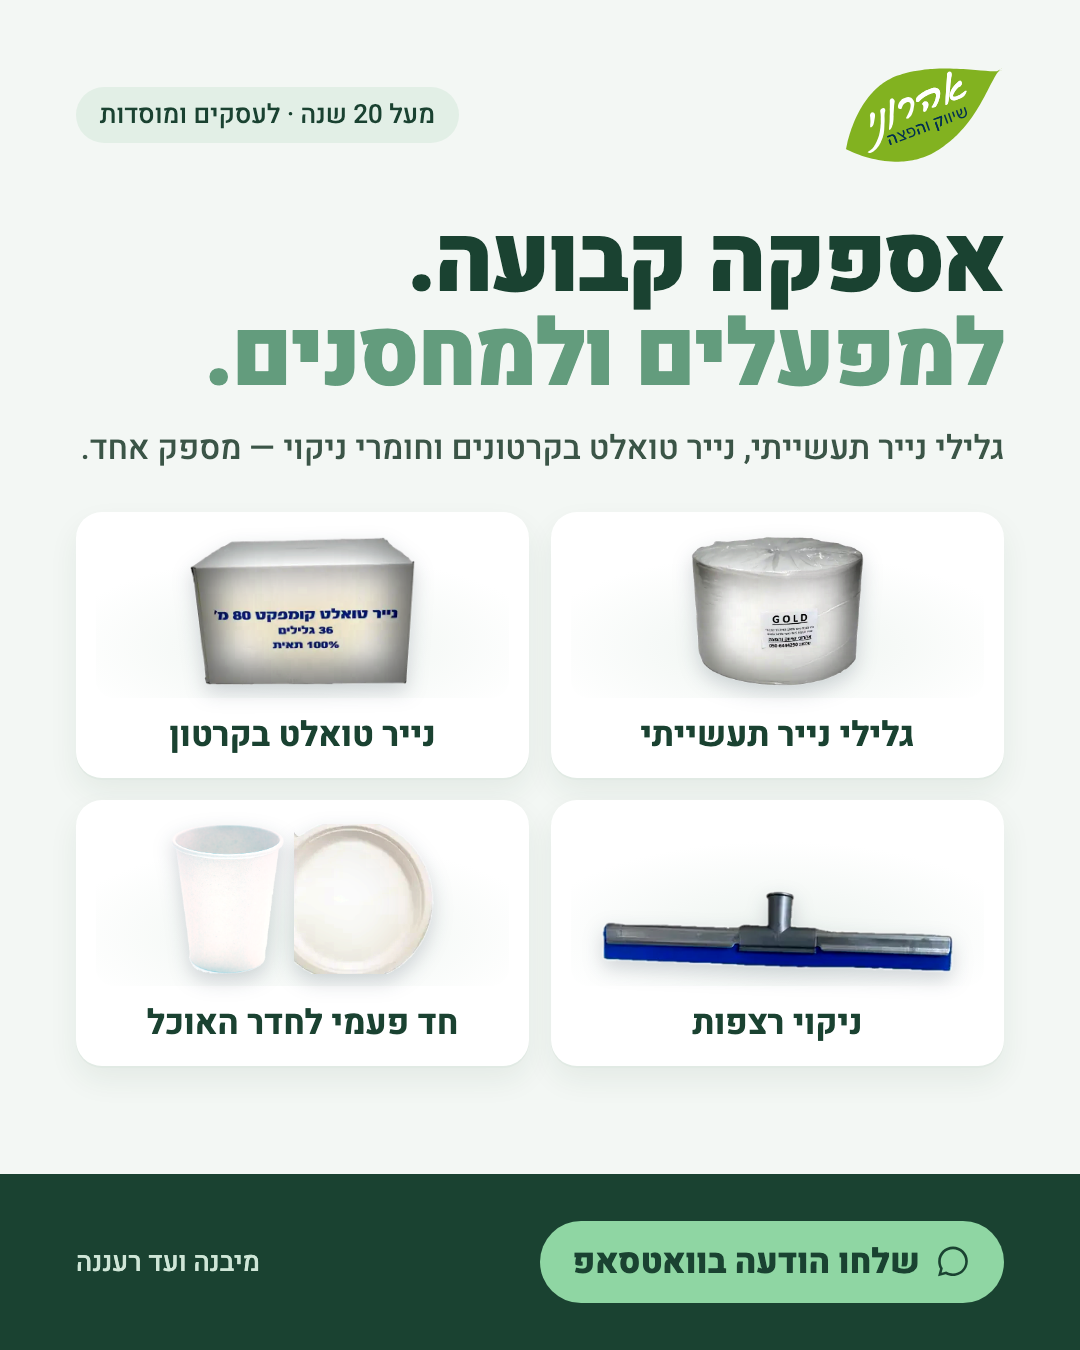
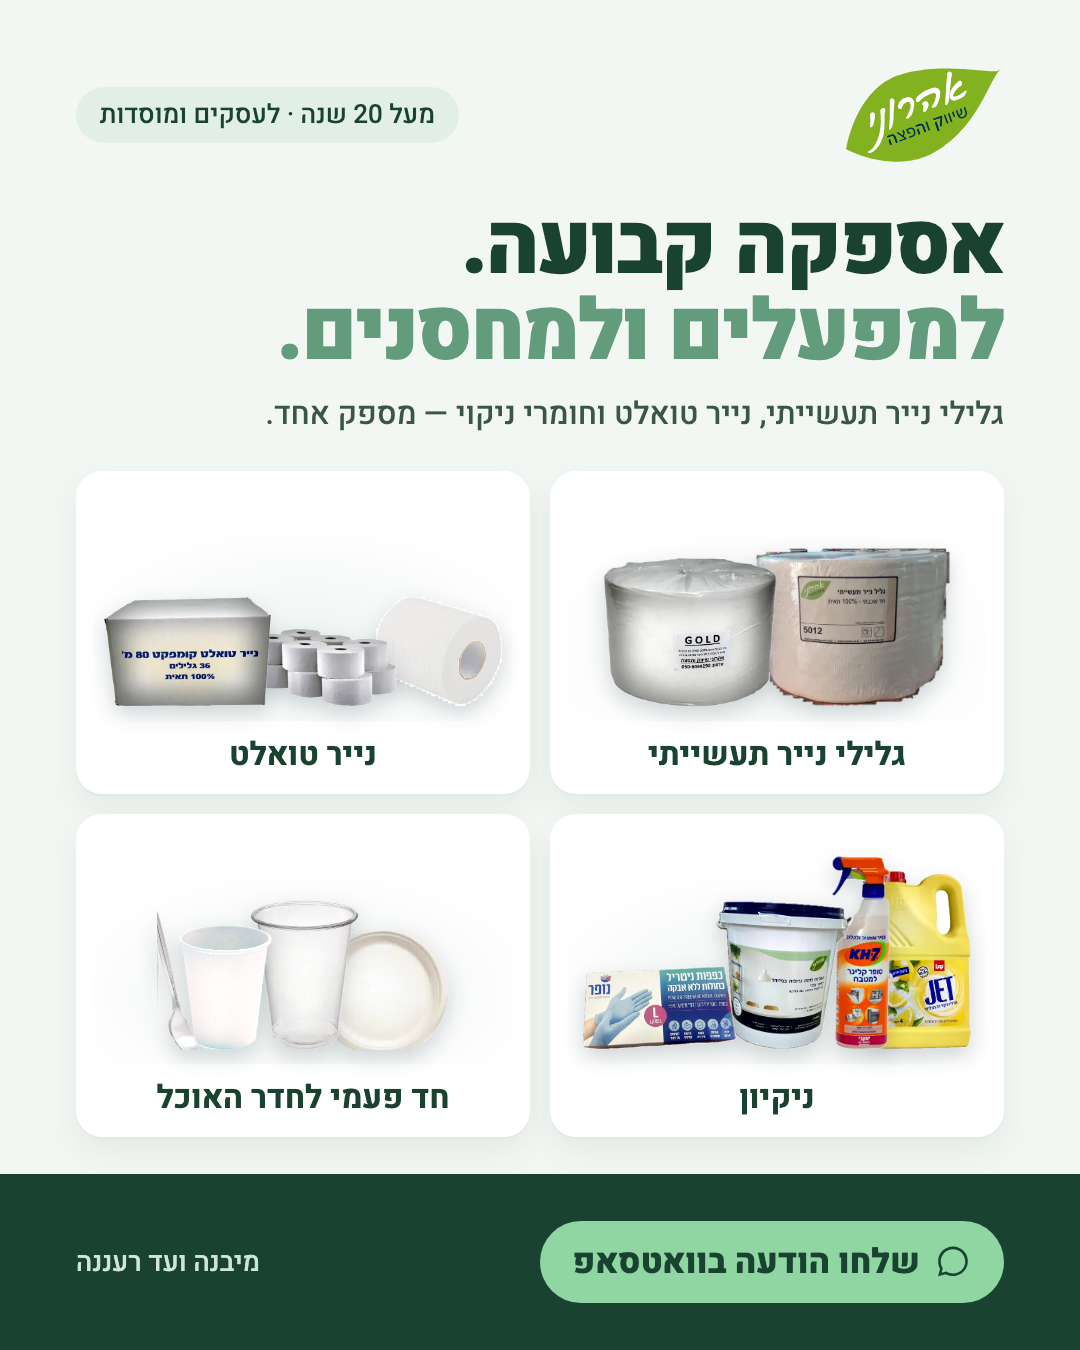
קמפיין מטא: המוצרים שרועי בחר — באריחים ובהצעת המחיר

diff --git a/marketing/ads/src/meta_draft.py b/marketing/ads/src/meta_draft.py
@@ -10,6 +10,8 @@ built on this file once they arrive.
 """
 import pathlib
 
+from PIL import Image
+
 from build import LOGO, data_uri, render
 
 HERE = pathlib.Path(__file__).parent
@@ -34,10 +36,10 @@ def photo(name):
     return data_uri(HERE / "prepped" / f"{name}.png")
 
 
-# The order in the customer's photo and the rows of the quote are the same four products -
-# all unbranded, so the quote can show their real photos.
-ORDER = [("מגבות נייר", "8", "rolls"), ("גלילי תאית", "12", "rolls2"),
-         ("כוסות 180 מ״ל", "20", "cold"), ("גליל תעשייתי", "6", "gold")]
+# The order in the customer's photo and the rows of the quote are the same four products,
+# from the ones Roei picked (22.10.26), so the quote can show their real photos.
+ORDER = [("נייר טואלט ג׳מבו", "12", "jumbo_tp"), ("גליל תעשייתי 5012", "6", "p5012"),
+         ("כוסות נייר", "20", "cup_paper"), ("כפפות ניטריל", "10", "gloves")]
 
 A = HEAD + BASE + """
 .c{position:relative;width:1080px;height:1350px;overflow:hidden;font-family:Heebo,sans-serif;
@@ -104,16 +106,17 @@ B = HEAD + BASE + """
 .top{display:flex;align-items:center;justify-content:space-between}
 .logo{width:160px;display:block}
 .chip{font-weight:500;font-size:26px;color:#1A4231;background:#E2EFE6;border-radius:40px;padding:9px 24px}
-h1{font-weight:900;font-size:92px;line-height:1.02;letter-spacing:-2px;margin-top:52px}
+h1{font-weight:900;font-size:84px;line-height:1.02;letter-spacing:-2px;margin-top:40px}
 h1 span{display:block;color:#639C7D}
-.lead{font-size:33px;font-weight:500;line-height:1.4;color:#3B5547;margin-top:22px}
-.grid{display:grid;grid-template-columns:1fr 1fr;gap:22px;margin-top:40px}
-.tile{background:#fff;border-radius:26px;padding:16px 20px 18px;display:flex;flex-direction:column;
+.lead{font-size:31px;font-weight:500;line-height:1.4;color:#3B5547;margin-top:18px}
+.grid{display:grid;grid-template-columns:1fr 1fr;gap:20px;margin-top:34px}
+.tile{background:#fff;border-radius:26px;padding:14px 18px 16px;display:flex;flex-direction:column;
   align-items:center;box-shadow:0 2px 0 #E1EAE4,0 14px 30px rgba(26,66,49,.07)}
-.ph{height:170px;width:100%;display:flex;align-items:flex-end;justify-content:center;gap:10px;
+.ph{height:236px;width:100%;display:flex;align-items:flex-end;justify-content:center;padding-bottom:14px;
   background:radial-gradient(60% 55% at 50% 70%,#EEF4F0 0%,#fff 100%);border-radius:18px}
-.ph img{max-height:150px;max-width:86%;margin-bottom:12px;filter:drop-shadow(0 8px 10px rgba(14,32,54,.18))}
-.tile span{font-weight:700;font-size:34px;margin-top:12px}
+.ph img{display:block;filter:drop-shadow(0 8px 10px rgba(14,32,54,.18))}
+.ph img + img{margin-inline-start:-@@OVERLAP@@px}
+.tile span{font-weight:700;font-size:32px;margin-top:10px}
 .band{position:absolute;left:0;right:0;bottom:0;height:176px;background:#1A4231;
   display:flex;align-items:center;justify-content:space-between;padding:0 76px}
 .cta{display:inline-flex;align-items:center;gap:14px;background:#8FD6A3;color:#1A4231;
@@ -128,24 +131,43 @@ h1 span{display:block;color:#639C7D}
   <div class="band"><span class="cta">@@WA@@שלחו הודעה בוואטסאפ</span><small>מיבנה ועד רעננה</small></div>
 </div></body></html>"""
 
+# Each tile is a small group of products at a target height in px. Roei chose the
+# groups (22.10.26): paper - 5012, compact 50, jumbo; disposables (instead of the coffee
+# corner) - paper cups, rigid spoon, plate, 500ml cup; office - copy paper, pens,
+# binders; cleaning - one Sano and one Yaakobi product, gloves, long wipes in a bucket.
+PAPER = [("p5012", 150), ("compact50", 125), ("jumbo_tp", 100)]
+DISPOSABLES = [("plate", 120), ("cup500", 150), ("cup_paper", 125), ("spoon", 140)]
+OFFICE = [("binder", 200), ("a4", 185), ("pens", 115)]
+CLEANING = [("jet", 180), ("kh7", 195), ("wipes", 150), ("gloves", 85)]
+
 B_ADS = {
     "office": dict(
         h1="ספק אחד.", h2="כל מה שהמשרד צריך.",
-        lead="נייר, קפה, ניקיון וציוד משרדי — הכל בהזמנה אחת.",
-        tiles=[(["rolls"], "נייר ומגבות"), (["cup_paper"], "פינת קפה"),
-               (["squeegee"], "ניקיון"), (["bins"], "ציוד משרדי")]),
+        lead="נייר, חד פעמי, ניקיון וציוד משרדי — הכל בהזמנה אחת.",
+        tiles=[(PAPER, "נייר וטואלט"), (DISPOSABLES, "חד פעמי"),
+               (OFFICE, "ציוד משרדי"), (CLEANING, "ניקיון")]),
     "factory": dict(
         h1="אספקה קבועה.", h2="למפעלים ולמחסנים.",
-        lead="גלילי נייר תעשייתי, נייר טואלט בקרטונים וחומרי ניקוי — מספק אחד.",
-        tiles=[(["gold"], "גלילי נייר תעשייתי"), (["carton"], "נייר טואלט בקרטון"),
-               (["squeegee"], "ניקוי רצפות"), (["plate", "cup_paper"], "חד פעמי לחדר האוכל")]),
+        lead="גלילי נייר תעשייתי, נייר טואלט וחומרי ניקוי — מספק אחד.",
+        tiles=[([("p5012", 160), ("gold", 150)], "גלילי נייר תעשייתי"),
+               ([("compact50", 140), ("jumbo_tp", 100), ("carton", 140)], "נייר טואלט"),
+               (CLEANING, "ניקיון"), (DISPOSABLES, "חד פעמי לחדר האוכל")]),
 }
+OVERLAP = 22     # px each product tucks under its neighbour
+GROUP_W = 400    # usable width of a tile's photo area
 
 
 def tiles(spec):
     out = []
-    for names, label in spec:
-        imgs = "".join(f'<img src="{photo(n)}">' for n in names)
+    for group, label in spec:
+        # Scale the whole group down together when its natural width overflows the tile,
+        # so the proportions inside a group never change.
+        widths = []
+        for name, h in group:
+            with Image.open(HERE / "prepped" / f"{name}.png") as im:
+                widths.append(im.width * h / im.height)
+        k = min(1.0, (GROUP_W + OVERLAP * (len(group) - 1)) / sum(widths))
+        imgs = "".join(f'<img src="{photo(n)}" style="height:{h * k:.0f}px">' for n, h in group)
         out.append(f'<div class="tile"><div class="ph">{imgs}</div><span>{label}</span></div>')
     return "".join(out)
 
@@ -160,6 +182,7 @@ def page_a():
 
 def page_b(ad):
     return (B.replace("@@LOGO@@", data_uri(LOGO)).replace("@@WA@@", WA)
+            .replace("@@OVERLAP@@", str(OVERLAP))
             .replace("@@H1@@", ad["h1"]).replace("@@H2@@", ad["h2"]).replace("@@LEAD@@", ad["lead"])
             .replace("@@TILES@@", tiles(ad["tiles"])))
 

diff --git a/marketing/ads/src/sources.py b/marketing/ads/src/sources.py
@@ -4,7 +4,7 @@ Each entry records where the pixels came from, which region was kept, and why -
 the crops exist to exclude other manufacturers' packaging, logos and barcodes.
 """
 import pathlib
-from prep import prepare
+from prep import prepare, prepare_dark
 
 # The repo's own catalog images (the repo moved from ~/Desktop to ~/aroan on 27.8.26).
 CAT = pathlib.Path(__file__).resolve().parents[3] / "images"
@@ -81,17 +81,78 @@ SOURCES = {
         note="pair of mesh office bins - generic price stickers only",
         radius=41, white=252, contrast=1.15,
     ),
+    # Roei's own picks for the Meta category tiles (22.10.26). Unlike the rest of this
+    # file, brands are wanted here: he asked for Sano and Yaakobi by name, and boxed
+    # goods (gloves, copy paper, pens) are shown as he sells them. dark=True marks his
+    # studio shots on a black ground with the Aroam leaf watermarked in a corner.
+    "p5012": dict(
+        src=CAT / "1787315001044_______________________5012.webp", dark=True,
+        note="single-ply industrial roll 5012 - Roei's own shot, black ground",
+    ),
+    "compact50": dict(
+        src=CAT / "1787509434410___________________50_-_36____.webp", dark=True,
+        note="compact 50 toilet roll - Roei's own shot, black ground",
+    ),
+    "jumbo_tp": dict(
+        src=CAT / "מוצרי נייר/נייר טואלט ג׳מבו טישו 1_12.webp",
+        note="loose jumbo toilet rolls, unbranded",
+        radius=41, white=252, contrast=1.15,
+    ),
+    "cup500": dict(
+        src=CAT / "חד פעמי ואריזות/כוס פלסטיק 500 מל.webp",
+        note="clear 500ml plastic cup",
+        radius=41, white=252, contrast=1.15,
+    ),
+    "a4": dict(
+        src=CAT / "מוצרי נייר/נייר צילום A4.webp",
+        note="A4 copy paper ream, as sold",
+        radius=41, white=252, contrast=1.1,
+    ),
+    "pens": dict(
+        src=CAT / "ציוד משרדי/עט לחיץ בקופסא 50 יחידות.webp",
+        note="tub of 50 click pens",
+        radius=41, white=252, contrast=1.1,
+    ),
+    "binder": dict(
+        src=CAT / "ציוד משרדי/קלסר גב 8.webp",
+        note="lever-arch binder",
+        radius=41, white=252, contrast=1.1,
+    ),
+    "jet": dict(
+        src=CAT / "ניקיון/סנו ג_ט רב תכליתי 4 ליטר.webp",
+        note="Sano Jet multi-purpose 4L - Roei asked for Sano",
+        radius=41, white=252, contrast=1.05,
+    ),
+    "kh7": dict(
+        src=CAT / "ניקיון/מסיר שומנים - יעקובי.webp",
+        note="KH-7 degreaser spray - Roei asked for Yaakobi",
+        radius=41, white=252, contrast=1.05,
+    ),
+    "gloves": dict(
+        src=CAT / "אביזרי ניקיון/כפפות ניטריל ללא אבקה.webp",
+        note="nitrile gloves box, as sold",
+        radius=41, white=252, contrast=1.05,
+    ),
+    "wipes": dict(
+        src=CAT / "אביזרי ניקיון/מגבונים ארוכים בדלי.webp",
+        note="long wipes in a bucket",
+        radius=41, white=252, contrast=1.05,
+    ),
 }
 
 
-def build_all():
+def build_all(names=None):
+    """Prepare every source, or only `names` - so adding products never re-renders the
+    cutouts that already shipped (a re-run drifts a few pixels on some of them)."""
     (HERE / "prepped").mkdir(exist_ok=True)
-    for name, cfg in SOURCES.items():
-        cfg = dict(cfg)
+    for name in names or SOURCES:
+        cfg = dict(SOURCES[name])
         src, note = cfg.pop("src"), cfg.pop("note")
-        im = prepare(str(src), HERE / "prepped" / f"{name}.png", **cfg)
+        fn = prepare_dark if cfg.pop("dark", False) else prepare
+        im = fn(str(src), HERE / "prepped" / f"{name}.png", **cfg)
         print(f"{name:10s} {im.size[0]:4d}x{im.size[1]:4d}  {note}")
 
 
 if __name__ == "__main__":
-    build_all()
+    import sys
+    build_all(sys.argv[1:])

diff --git a/marketing/ads/src/build.py b/marketing/ads/src/build.py
@@ -8,7 +8,9 @@ the cream field - no cutout, no fringing, no lost rims.
 """
 import base64
 import json
+import os
 import pathlib
+import signal
 import subprocess
 import sys
 
@@ -153,7 +155,7 @@ def page(w, h, panel, logo_css, items_html, floor_h):
 </div></body></html>"""
 
 
-def render(html, out, w, h, slack=200, wait_ms=0):
+def render(html, out, w, h, slack=200, wait_ms=0, timeout=120):
     """Screenshot the page at exactly w x h.
 
     Chrome's --window-size counts window chrome, so the usable viewport comes out
@@ -164,6 +166,10 @@ def render(html, out, w, h, slack=200, wait_ms=0):
 
     wait_ms: pages that pull web fonts need it - the fonts arrive after the load
     event, and without a budget Chrome shoots the fallback face.
+
+    timeout: a headless Chrome has hung here with the renderer idle at 0% CPU. Chrome
+    runs in its own process group so the whole tree can be killed, and its output goes
+    to /dev/null - a helper holding a captured pipe open would block the kill as well.
     """
     from PIL import Image
     import numpy as np
@@ -178,7 +184,15 @@ def render(html, out, w, h, slack=200, wait_ms=0):
     ]
     if wait_ms:
         cmd.append(f"--virtual-time-budget={wait_ms}")
-    subprocess.run(cmd + [tmp.as_uri()], check=True, capture_output=True)
+    proc = subprocess.Popen(cmd + [tmp.as_uri()], stdout=subprocess.DEVNULL,
+                            stderr=subprocess.DEVNULL, start_new_session=True)
+    try:
+        code = proc.wait(timeout=timeout)
+    except subprocess.TimeoutExpired:
+        os.killpg(proc.pid, signal.SIGKILL)
+        raise RuntimeError(f"{out}: Chrome did not finish within {timeout}s")
+    if code:
+        raise RuntimeError(f"{out}: Chrome exited with {code}")
 
     im = Image.open(raw).convert("RGB").crop((0, 0, w, h))
     a = np.asarray(im)

diff --git a/marketing/ads/src/prep.py b/marketing/ads/src/prep.py
@@ -182,3 +182,35 @@ def prepare(path, out, radius=61, box=None, neutral=0.0, density=1.0,
                           min(out_im.height, ys.max() + 1 + pad)))
     out_im.save(out)
     return out_im
+
+
+def prepare_dark(path, out, thresh=40, erode=2, feather=1.0, pad=2):
+    """Cut a product out of a near-black ground - Roei's own studio shots.
+
+    The ground is every near-black pixel connected to the border. What remains is the
+    product plus the watermark leaf in the corner; keeping only the largest object drops
+    the watermark. The mask is pulled in by `erode` pixels first: the anti-aliased rim
+    between a white product and a black ground is grey, and would read as a dark halo
+    on a light tile.
+    """
+    im = Image.open(path).convert("RGB")
+    a = np.asarray(im).astype(int)
+    labels, _ = _label(a.max(2) < thresh)
+    edge = np.concatenate([labels[0], labels[-1], labels[:, 0], labels[:, -1]])
+    ground = np.isin(labels, [v for v in np.unique(edge) if v])
+    obj = _fill_holes(~ground)
+    labels, sizes = _label(obj)
+    if len(sizes) > 1:
+        obj = labels == int(np.argmax(sizes[1:]) + 1)
+    alpha = Image.fromarray((obj * 255).astype(np.uint8), "L")
+    if erode:
+        alpha = alpha.filter(ImageFilter.MinFilter(2 * erode + 1))
+    if feather:
+        alpha = alpha.filter(ImageFilter.GaussianBlur(feather))
+    rgba = im.convert("RGBA")
+    rgba.putalpha(alpha)
+    ys, xs = np.nonzero(obj)
+    rgba = rgba.crop((max(0, xs.min() - pad), max(0, ys.min() - pad),
+                      min(im.width, xs.max() + 1 + pad), min(im.height, ys.max() + 1 + pad)))
+    rgba.save(out)
+    return rgba

diff --git a/marketing/ads/src/check_prepped.py b/marketing/ads/src/check_prepped.py
@@ -12,6 +12,10 @@ EXISTING = ["plate", "beer", "cup_paper", "cold", "spoon", "fork", "rolls", "rol
 # The Meta set's additions. Only these get the cutout-quality checks: the August items
 # shipped long ago, and some of them (forks, the spoon) are thin by nature.
 NEW = ["gold", "carton", "squeegee", "bins"]
+# Roei's picks for the category tiles. Shown at fixed heights inside a tile rather than
+# at real-world scale, so they carry no CM entry.
+TILES = ["p5012", "compact50", "jumbo_tp", "cup500", "a4", "pens", "binder",
+         "jet", "kh7", "gloves", "wipes"]
 fails = []
 
 
@@ -25,7 +29,10 @@ for name in EXISTING + NEW:
     check(name in CM and name in AXIS, f"{name}: real-world size and axis recorded")
     check((HERE / "prepped" / f"{name}.png").exists(), f"{name}: prepped cutout exists")
 
-for name in NEW:
+for name in TILES:
+    check((HERE / "prepped" / f"{name}.png").exists(), f"{name}: prepped cutout exists")
+
+for name in NEW + TILES:
     p = HERE / "prepped" / f"{name}.png"
     if not p.exists():
         continue
